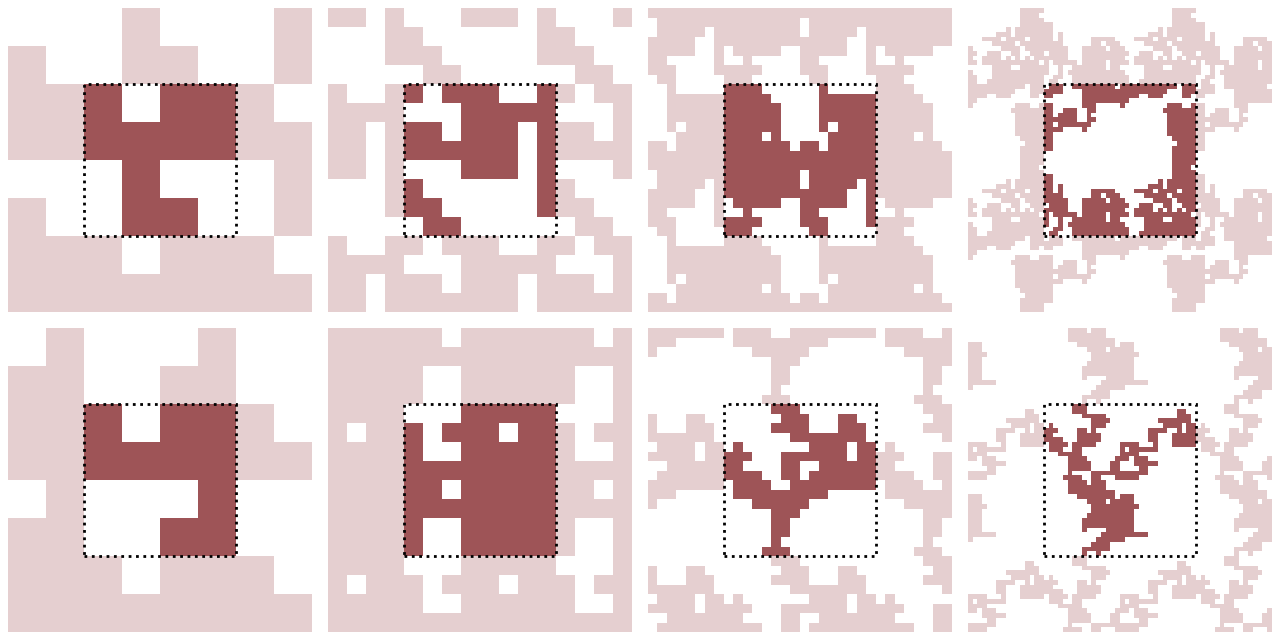
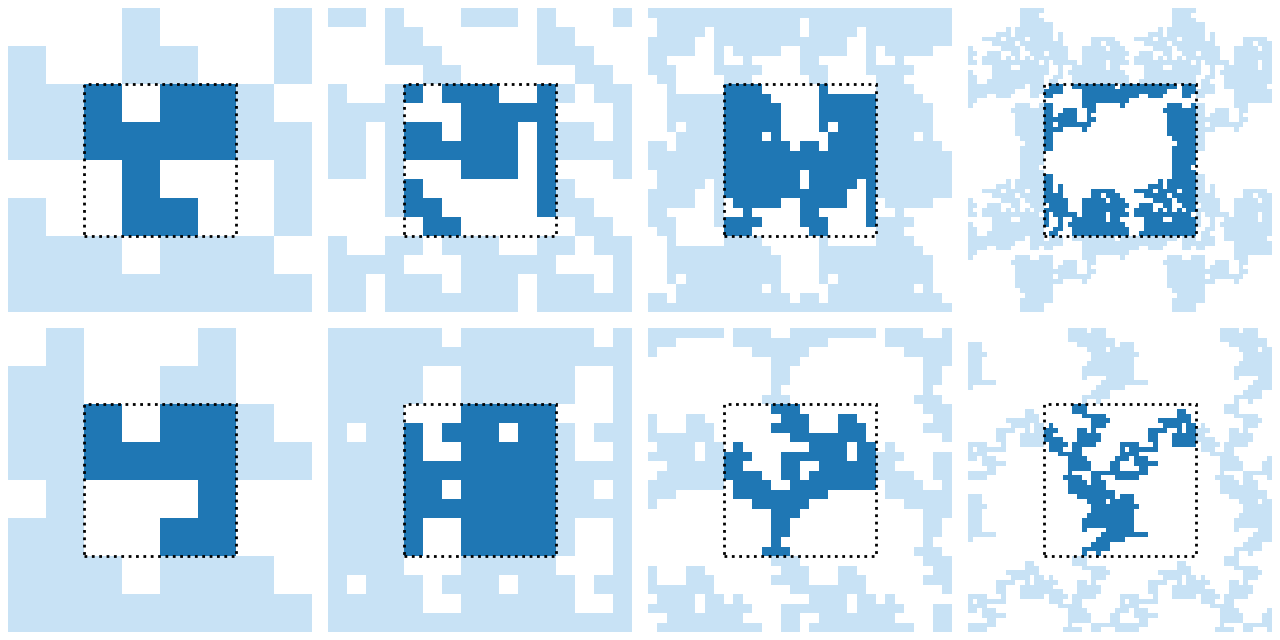
Update teaser color

diff --git a/assets/create_teaser.py b/assets/create_teaser.py
@@ -12,8 +12,8 @@ CMAP = LinearSegmentedColormap.from_list(
     'custom',
     [
         (0.0, 'white'),
-        (0.5, '#e6d0d1'),
-        (1.0, '#9e5457')
+        (0.5, '#c9e3f6'),
+        (1.0, 'C0')
     ]
 )
 
